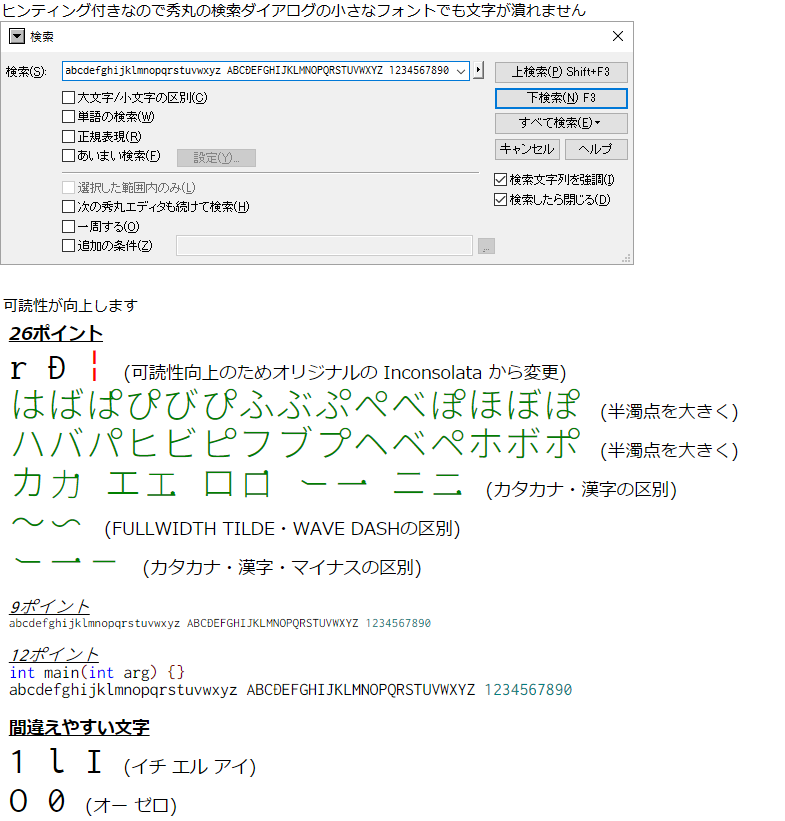
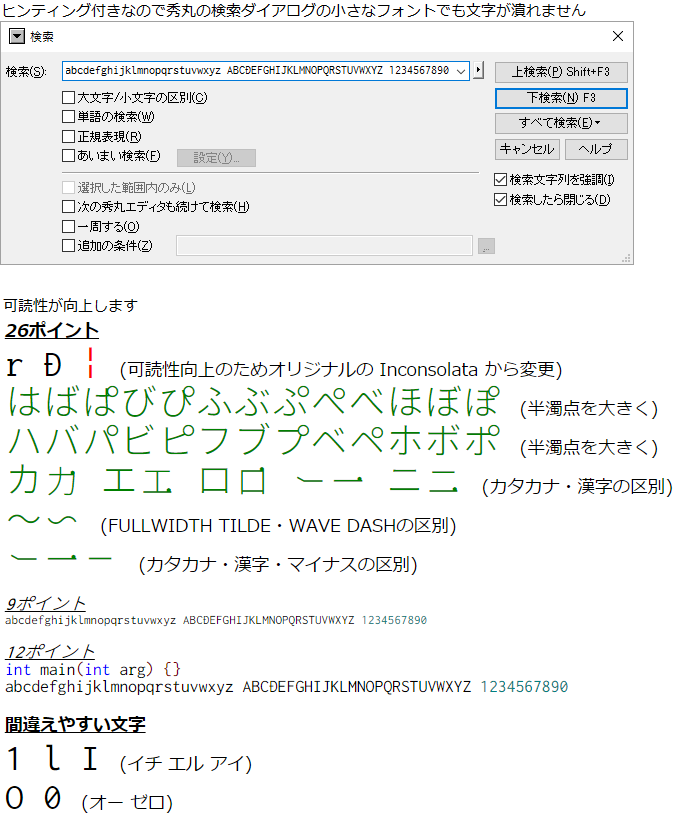
2.011.20160403
2.011.20160403

diff --git a/Source/sample.html b/Source/sample.html
@@ -52,9 +52,9 @@ abcdefghijklmnopqrstuvwxyz ABCDEFGHIJKLMNOPQRSTUVWXYZ <span style='color:teal'>1
 <span style='font-size:12pt;font-family:"Meiryo"'><u><b><i>26ポイント</i></b></u></span><br>
 r D <span style='color:red'>|</span>
 <span style='font-size:12pt;font-family:"Meiryo"'> (可読性向上のためオリジナルの Inconsolata から変更)</span><br>
-<span style='color:green'>はばぱぴびぴふぶぷぺべぽほぼぽ</span>
+<span style='color:green'>はばぱびぴふぶぷぺべほぼぽ</span>
 <span style='font-size:12pt;font-family:"Meiryo"'> (半濁点を大きく)</span><br>
-<span style='color:green'>ハバパヒビピフブプヘベペホボポ</span>
+<span style='color:green'>ハバパビピフブプベペホボポ</span>
 <span style='font-size:12pt;font-family:"Meiryo"'> (半濁点を大きく)</span><br>
 <span style='color:green'>カ力 エ工 ロ口 ー一 ニ二</span>
 <span style='font-size:12pt;font-family:"Meiryo"'> (カタカナ・漢字の区別)</span><br>

diff --git a/Source/myricaM_generator.py b/Source/myricaM_generator.py
@@ -19,7 +19,7 @@
 #     ー一－（カタカナ・漢字・マイナス）の区別
 
 # version
-newfont_version      = "2.010.20160103"
+newfont_version      = "2.011.20160403"
 newfont_sfntRevision = 0x00010000
 
 # set font name

diff --git a/product/MyricaM_改版履歴.md b/product/MyricaM_改版履歴.md
@@ -1,5 +1,12 @@
 ## MyricaM 改版履歴  
 
+#### Version 2.011.20160403  
+　　Inconsolata : Inconsolata-Regular.ttf (1.016 Google Fonts)  
+　　Mgen+       : mgenplus-1m-light.ttf (1.059.20150602)  
+
+* mgenplusから継承している×が半角サイズなため、GenShinGothicの×に置き換えて全角となるように修正  
+
+
 #### Version 2.010.20160103  
 　　Inconsolata : Inconsolata-Regular.ttf (1.016 Google Fonts)  
 　　Mgen+       : mgenplus-1m-light.ttf (1.059.20150602)  
